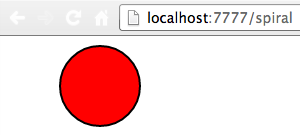
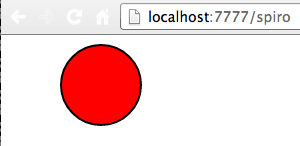
completed spiro excercise

Changed region(s): [[0.0, 0.0, 1.0, 1.0], [0.18, 0.2963, 0.48, 0.9481]]

diff --git a/2013/meetup/step10.go b/2013/meetup/step10.go
@@ -1,0 +1,88 @@
+package main
+
+import (
+	"github.com/ajstarks/svgo"
+	"log"
+	"math"
+	"net/http"
+	"strconv"
+)
+
+const DegToRad = math.Pi / 180
+
+func main() {
+	http.HandleFunc("/spiro", spiroHandler)
+	log.Fatal(http.ListenAndServe(":7777", nil))
+}
+
+func spiroHandler(w http.ResponseWriter, r *http.Request) {
+	w.Header().Set("Content-Type", "image/svg+xml")
+	// START OMIT
+	spiro := Spiro{
+		revolutions: intParameter(r, "rev", 3),
+		angleDelta:  intParameter(r, "delta", 2),
+		innerRadius: float64(intParameter(r, "inner", 30)),
+		outerRadius: float64(intParameter(r, "outer", 200)),
+		innerOffset: float64(intParameter(r, "offset", 45)),
+	}
+	width := intParameter(r, "width", 1000)
+	height := intParameter(r, "height", 1000)
+	canvas := svg.New(w)
+	canvas.Start(width, height)
+	xcoords, ycoords := computeSpiroPoints(width/2, height/2, spiro)
+	canvas.Polyline(xcoords, ycoords, `stroke="blue" stroke-width="1" fill="none"`)
+	canvas.End()
+}
+
+func intParameter(r *http.Request, name string, missing int) (value int) {
+	value = missing
+	param := r.URL.Query().Get(name)
+	if param != "" {
+		conv, err := strconv.Atoi(param)
+		if err == nil { // invalid means missing
+			value = conv
+		}
+	}
+	return
+}
+
+// END OMIT
+
+type Spiro struct {
+	revolutions int
+	angleDelta  int
+	innerRadius float64
+	outerRadius float64
+	innerOffset float64
+}
+
+func computeSpiroPoints(xc int, yc int, spiro Spiro) (xcoords []int, ycoords []int) {
+	xcoords = []int{}
+	ycoords = []int{}
+	for g := 0; g <= spiro.revolutions*360; g += spiro.angleDelta {
+		x, y := computeSpiro(float64(g)*DegToRad, spiro.innerRadius, spiro.outerRadius, spiro.innerOffset)
+		xcoords = append(xcoords, round(x)+xc)
+		ycoords = append(ycoords, round(y)+yc)
+	}
+	return
+}
+
+func computeSpiro(t float64, r float64, R float64, offset float64) (x, y float64) {
+	k := r / R
+	l := offset / r
+	x1 := (1 - k) * math.Cos(t)
+	x2 := l * k * math.Cos(((1-k)/k)*t)
+	x = R * (x1 + x2)
+	y1 := (1 - k) * math.Sin(t)
+	y2 := l * k * math.Sin(((1-k)/k)*t)
+	y = R * (y1 - y2)
+	return
+}
+
+func round(v float64) int {
+	if v < 0 {
+		return int(v - 0.5)
+	} else {
+		return int(v + 0.5)
+	}
+}

diff --git a/2013/meetup/step9.go b/2013/meetup/step9.go
@@ -1,0 +1,81 @@
+package main
+
+import (
+	"github.com/ajstarks/svgo"
+	"log"
+	"math"
+	"net/http"
+)
+
+const DegToRad = math.Pi / 180
+
+func main() {
+	http.HandleFunc("/spiro", spiroHandler)
+	log.Fatal(http.ListenAndServe(":7777", nil))
+}
+
+// START OMIT
+
+func spiroHandler(w http.ResponseWriter, r *http.Request) {
+	w.Header().Set("Content-Type", "image/svg+xml")
+
+	width := 1000
+	height := 1000
+
+	canvas := svg.New(w)
+	canvas.Start(width, height)
+
+	spiro := Spiro{
+		revolutions: 4,
+		angleDelta:  5,
+		innerRadius: 30,
+		outerRadius: 200,
+		innerOffset: 20,
+	}
+
+	xcoords, ycoords := computeSpiroPoints(width/2, height/2, spiro)
+
+	canvas.Polyline(xcoords, ycoords, `stroke="blue" stroke-width="1" fill="none"`)
+	canvas.End()
+}
+
+// END OMIT
+
+type Spiro struct {
+	revolutions int
+	angleDelta  int
+	innerRadius float64
+	outerRadius float64
+	innerOffset float64
+}
+
+func computeSpiroPoints(xc int, yc int, spiro Spiro) (xcoords []int, ycoords []int) {
+	xcoords = []int{}
+	ycoords = []int{}
+	for g := 0; g <= spiro.revolutions*360; g += spiro.angleDelta {
+		x, y := computeSpiro(float64(g)*DegToRad, spiro.innerRadius, spiro.outerRadius, spiro.innerOffset)
+		xcoords = append(xcoords, round(x)+xc)
+		ycoords = append(ycoords, round(y)+yc)
+	}
+	return
+}
+
+func computeSpiro(t float64, r float64, R float64, offset float64) (x, y float64) {
+	k := r / R
+	l := offset / r
+	x1 := (1 - k) * math.Cos(t)
+	x2 := l * k * math.Cos(((1-k)/k)*t)
+	x = R * (x1 + x2)
+	y1 := (1 - k) * math.Sin(t)
+	y2 := l * k * math.Sin(((1-k)/k)*t)
+	y = R * (y1 - y2)
+	return
+}
+
+func round(v float64) int {
+	if v < 0 {
+		return int(v - 0.5)
+	} else {
+		return int(v + 0.5)
+	}
+}

diff --git a/2013/meetup/step8.go b/2013/meetup/step8.go
@@ -1,0 +1,80 @@
+package main
+
+import (
+	"github.com/ajstarks/svgo"
+	"log"
+	"math"
+	"net/http"
+)
+
+const DegToRad = math.Pi / 180
+
+func main() {
+	http.HandleFunc("/spiro", spiroHandler)
+	log.Fatal(http.ListenAndServe(":7777", nil))
+}
+
+func spiroHandler(w http.ResponseWriter, r *http.Request) {
+	w.Header().Set("Content-Type", "image/svg+xml")
+
+	width := 1000
+	height := 1000
+
+	canvas := svg.New(w)
+	canvas.Start(width, height)
+
+	spiro := Spiro{
+		revolutions: 4,
+		angleDelta:  5,
+		innerRadius: 30,
+		outerRadius: 200,
+		innerOffset: 20,
+	}
+
+	xcoords, ycoords := spiro.computeCoordinates(width/2, height/2)
+
+	canvas.Polyline(xcoords, ycoords, `stroke="blue" stroke-width="1" fill="none"`)
+	canvas.End()
+}
+
+type Spiro struct {
+	revolutions int
+	angleDelta  int
+	innerRadius float64
+	outerRadius float64
+	innerOffset float64
+}
+
+// START OMIT
+func (s Spiro) computeCoordinates(xc int, yc int) (xcoords []int, ycoords []int) {
+	xcoords = []int{}
+	ycoords = []int{}
+	for g := 0; g <= s.revolutions*360; g += s.angleDelta {
+		x, y := computeSpiro(float64(g)*DegToRad, s.innerRadius, s.outerRadius, s.innerOffset)
+		xcoords = append(xcoords, round(x)+xc)
+		ycoords = append(ycoords, round(y)+yc)
+	}
+	return
+}
+
+func round(v float64) int {
+	if v < 0 {
+		return int(v - 0.5)
+	} else {
+		return int(v + 0.5)
+	}
+}
+
+// END OMIT
+
+func computeSpiro(t float64, r float64, R float64, offset float64) (x, y float64) {
+	k := r / R
+	l := offset / r
+	x1 := (1 - k) * math.Cos(t)
+	x2 := l * k * math.Cos(((1-k)/k)*t)
+	x = R * (x1 + x2)
+	y1 := (1 - k) * math.Sin(t)
+	y2 := l * k * math.Sin(((1-k)/k)*t)
+	y = R * (y1 - y2)
+	return
+}

diff --git a/2013/meetup/step6.go b/2013/meetup/step6.go
@@ -1,0 +1,29 @@
+package main
+
+import (
+	"github.com/ajstarks/svgo"
+	"log"
+	"net/http"
+)
+
+func main() {
+	http.HandleFunc("/spiro", spiroHandler)
+	log.Fatal(http.ListenAndServe(":7777", nil))
+}
+
+// START OMIT
+
+func spiroHandler(w http.ResponseWriter, r *http.Request) {
+	w.Header().Set("Content-Type", "image/svg+xml")
+
+	canvas := svg.New(w)
+	canvas.Start(500, 500)
+
+	xcoords := []int{50, 100, 150}
+	ycoords := []int{150, 50, 100}
+
+	canvas.Polyline(xcoords, ycoords, `stroke="blue" stroke-width="1" fill="none"`)
+	canvas.End()
+}
+
+// END OMIT

diff --git a/2013/meetup/step5_test.go b/2013/meetup/step5_test.go
@@ -6,13 +6,15 @@ import (
 	"testing"
 )
 
+// go test -v step5_test.go
+
 // START OMIT
 const DegToRad = math.Pi / 180
 
 func TestComputeSpiro(t *testing.T) {
-	for g := 0; g < 360; g += 10 {
+	for g := 0; g <= 360; g += 10 {
 		x, y := computeSpiro(float64(g)*DegToRad, 10, 100, 2)
-		fmt.Printf("(%v,%v)\n", x, y)
+		fmt.Printf("(%f,%f)\n", x, y)
 	}
 }
 
